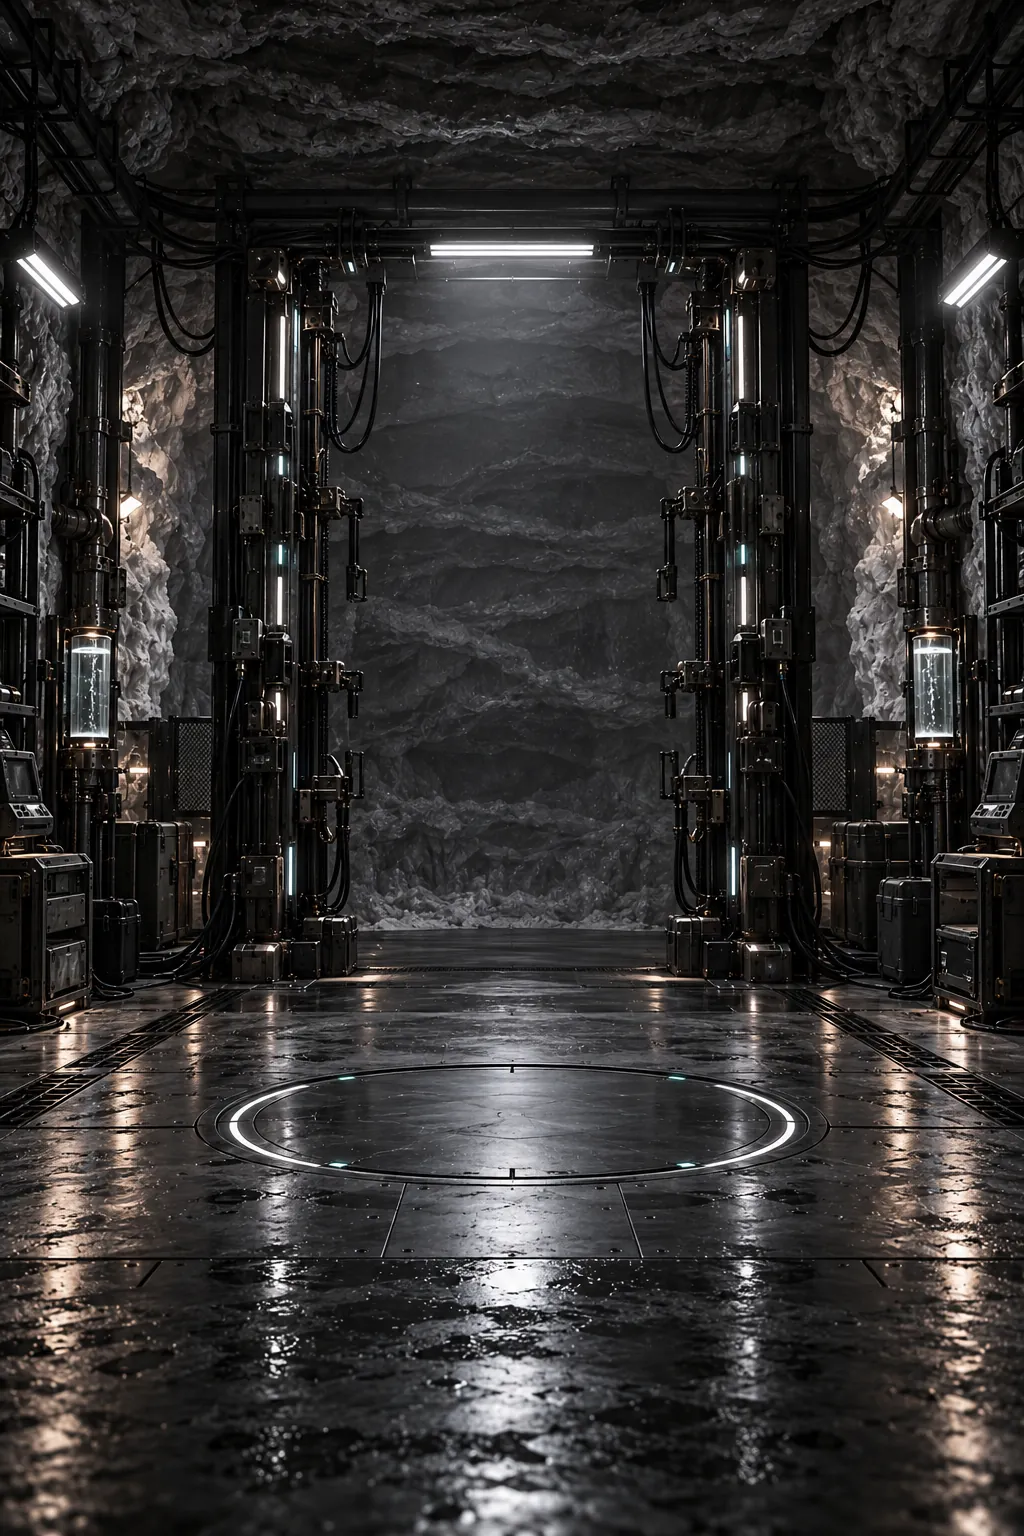
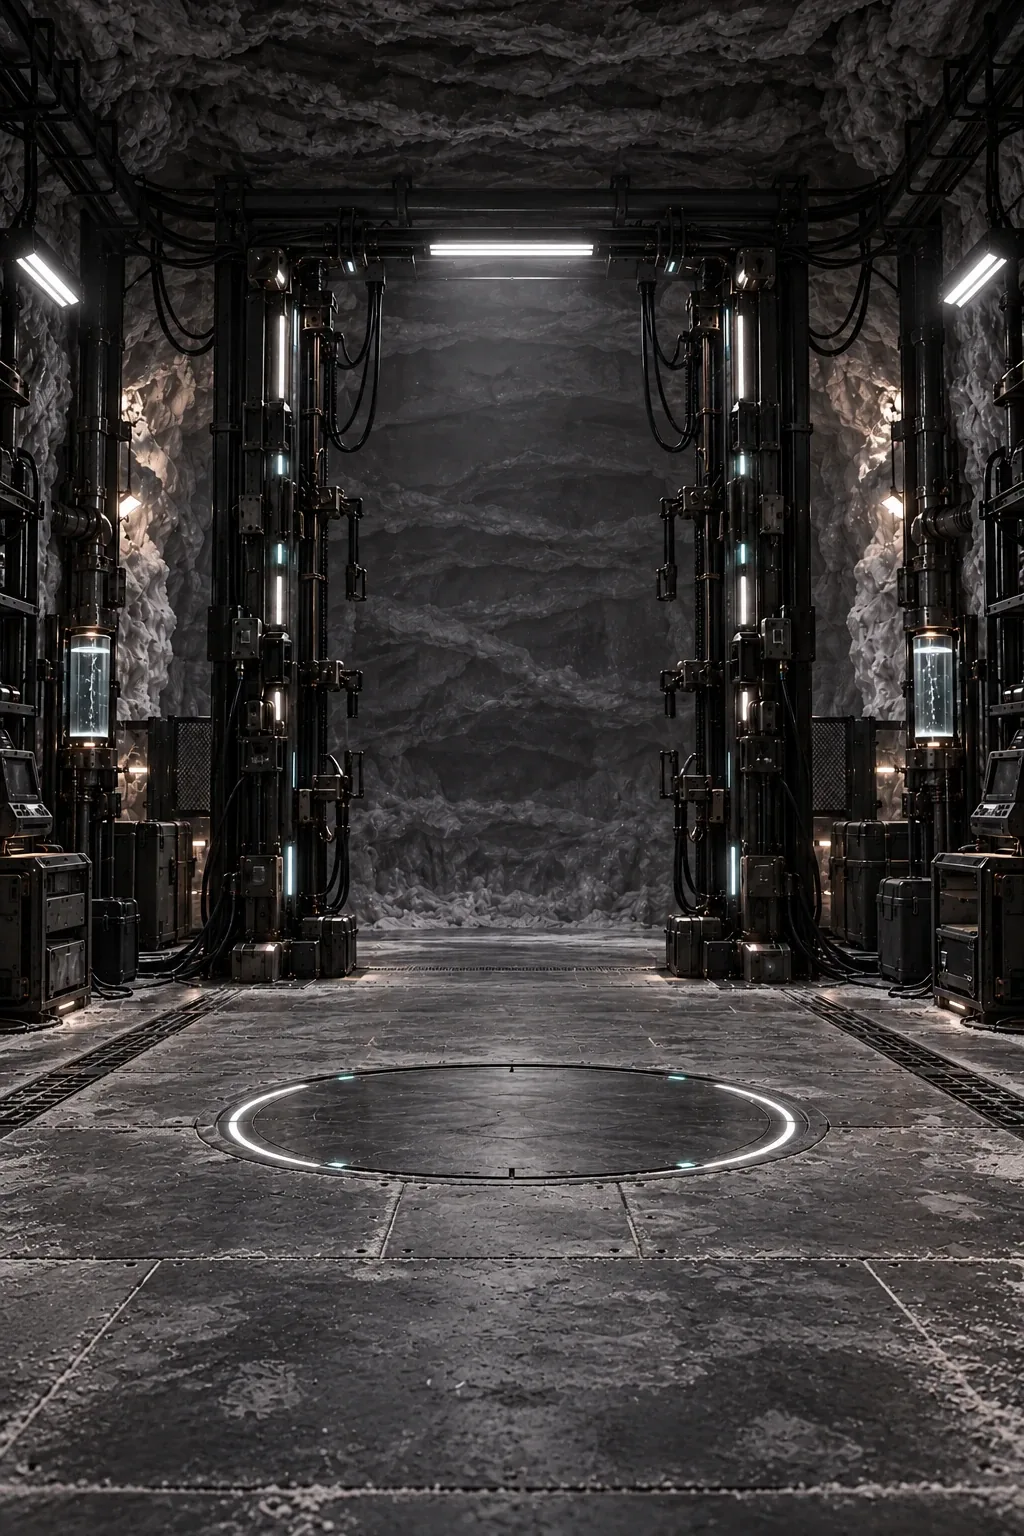
Persona eyes glow in a colour the player picks; dry floor in the Persona bay
The iris is found by its point in the head's own space, since the scans scatter
each eye over several UV islands. Six glow colours replace the iris tints; saved
looks keep their ids.

diff --git a/crates/game-wasm/src/browser/look.rs b/crates/game-wasm/src/browser/look.rs
@@ -54,38 +54,46 @@ fn tint(material: &JsValue, factor: [f64; 3]) {
 }
 
 fn head_hook(material: &JsValue, paint: &JsValue) {
-    let areas = values(&get(paint, "eyeAreas"));
-    let area = |i: usize| array(&areas[i * 4..i * 4 + 4]).into();
+    let spots = values(&get(paint, "eyeSpots"));
+    let area = |i: usize| array(&spots[i * 4..i * 4 + 4]).into();
     let mut uniforms = get(&get(material, "userData"), "cdLook");
     if !present(&uniforms) {
         uniforms = object(&[
             ("cdEyeA", object(&[("value", area(0))])),
             ("cdEyeB", object(&[("value", area(1))])),
             ("cdIris", object(&[("value", get(paint, "iris"))])),
-            ("cdIrisOn", object(&[("value", 0.0.into())])),
         ]);
         set(&get(material, "userData"), "cdLook", &uniforms);
         let shared = uniforms.clone();
         let compile = Closure::<dyn FnMut(JsValue)>::new(move |shader: JsValue| {
             let own = get(&shader, "uniforms");
-            for key in ["cdEyeA", "cdEyeB", "cdIris", "cdIrisOn"] {
+            for key in ["cdEyeA", "cdEyeB", "cdIris"] {
                 set(&own, key, &get(&shared, key));
             }
+            let vertex = string(&get(&shader, "vertexShader"))
+                .replacen("#include <common>", "#include <common>\nvarying vec3 cdLocal;", 1)
+                .replacen("#include <begin_vertex>", "#include <begin_vertex>\ncdLocal = position;", 1);
+            set(&shader, "vertexShader", &vertex.into());
             let fragment = string(&get(&shader, "fragmentShader"))
                 .replacen(
                     "#include <common>",
-                    "#include <common>\nuniform vec4 cdEyeA;\nuniform vec4 cdEyeB;\nuniform vec3 cdIris;\nuniform float cdIrisOn;",
+                    "#include <common>\nvarying vec3 cdLocal;\nuniform vec4 cdEyeA;\nuniform vec4 cdEyeB;\nuniform vec3 cdIris;\nvec3 cdGlow = vec3( 0.0 );",
                     1,
                 )
                 .replacen(
                     "#include <map_fragment>",
                     concat!("#include <map_fragment>\n", include_str!("shaders/look-eyes.glsl")),
                     1,
+                )
+                .replacen(
+                    "#include <emissivemap_fragment>",
+                    "#include <emissivemap_fragment>\ntotalEmissiveRadiance += cdGlow;",
+                    1,
                 );
             set(&shader, "fragmentShader", &fragment.into());
         })
         .into_js_value();
-        let hook = object(&[("key", "look1".into()), ("compile", compile.clone())]);
+        let hook = object(&[("key", "look3".into()), ("compile", compile.clone())]);
         HOOKS.with(|h| h.set(material.unchecked_ref(), &hook));
         // Until the next tune, the hook runs on its own; tune then chains it with the rest.
         set(material, "onBeforeCompile", &compile);
@@ -94,8 +102,6 @@ fn head_hook(material: &JsValue, paint: &JsValue) {
     set(&get(&uniforms, "cdEyeA"), "value", &area(0));
     set(&get(&uniforms, "cdEyeB"), "value", &area(1));
     set(&get(&uniforms, "cdIris"), "value", &get(paint, "iris"));
-    let on = if boolean(&get(paint, "recolorEyes")) { 1.0 } else { 0.0 };
-    set(&get(&uniforms, "cdIrisOn"), "value", &on.into());
 }
 
 /// Paints `look` onto `model`. Safe to call again after every change.

diff --git a/crates/game-client/src/look.rs b/crates/game-client/src/look.rs
@@ -17,14 +17,14 @@ const SKINS: [Choice; 6] = [
     ("brown", "Тёмная", 0x9c7458),
     ("deep", "Очень тёмная", 0x6e4c38),
 ];
-/// Iris colours; grey is the scan's own eye.
+/// Eye glow colours. The ids are the old iris list's, so saved looks still load.
 const EYES: [Choice; 6] = [
-    ("grey", "Серые", 0x8c9092),
-    ("blue", "Голубые", 0x4f7396),
-    ("green", "Зелёные", 0x5b7a4c),
-    ("hazel", "Ореховые", 0x7a5a34),
-    ("brown", "Карие", 0x4a3020),
-    ("dark", "Тёмные", 0x241a14),
+    ("grey", "Лёд", 0x8fd6ff),
+    ("blue", "Синие", 0x3f8cff),
+    ("green", "Зелёные", 0x4dff88),
+    ("hazel", "Янтарные", 0xffb43a),
+    ("brown", "Красные", 0xff3d2e),
+    ("dark", "Фиолетовые", 0xa35cff),
 ];
 /// (sex, id, name, hair cap, hair cards). The male scan has its buzz cut baked into the head.
 const HAIRS: [(&str, &str, &str, bool, bool); 4] = [
@@ -52,10 +52,11 @@ const SUITS: [Choice; 6] = [
 /// Average sRGB of the baked hair cards and suit textures; picks are scaled against them.
 const HAIR_BASE: [f64; 3] = [0.406, 0.304, 0.229];
 const SUIT_BASE: [f64; 3] = [0.322, 0.295, 0.270];
-/// Eye areas in each head texture's UV space (x0, y0, x1, y1), from the 1024 px scans.
-const EYE_AREAS: [(&str, [f64; 8]); 2] = [
-    ("male", [185., 405., 235., 465., 260., 585., 330., 630.]),
-    ("female", [470., 685., 520., 725., 615., 680., 665., 720.]),
+/// Each head's two irises in its mesh's own space (x, y, z, radius). The scans' UV atlases scatter
+/// an eye over several islands, so the eyes are found by position, not by texture area.
+const EYE_SPOTS: [(&str, [f64; 8]); 2] = [
+    ("male", [-0.037, 1.7935, 0.086, 0.006, 0.0292, 1.793, 0.0858, 0.006]),
+    ("female", [-0.283, 0.092, 0.623, 0.05, 0.266, 0.103, 0.622, 0.05]),
 ];
 pub const CALLSIGN_MAX: usize = 16;
 
@@ -182,11 +183,7 @@ pub fn paint(look: &Value) -> Value {
         .unwrap_or(HAIRS[0]);
     let hair_color = find(&HAIR_COLORS, text(&look["hairColor"])).unwrap_or(HAIR_COLORS[2]);
     let eyes = find(&EYES, text(&look["eyes"])).unwrap_or(EYES[0]);
-    let areas = EYE_AREAS
-        .iter()
-        .find(|a| a.0 == sex)
-        .map(|a| a.1.map(|v| v / 1024.))
-        .unwrap_or([0.; 8]);
+    let spots = EYE_SPOTS.iter().find(|a| a.0 == sex).map(|a| a.1).unwrap_or([0.; 8]);
     let cap = lin(srgb(hair_color.2)).map(|v| v * 0.75);
     json!({
         "sex": sex,
@@ -198,8 +195,7 @@ pub fn paint(look: &Value) -> Value {
         "cap": hair.3,
         "cards": hair.4,
         "iris": round(lin(srgb(eyes.2))),
-        "recolorEyes": eyes.0 != "grey",
-        "eyeAreas": json!(areas),
+        "eyeSpots": json!(spots),
     })
 }
 
@@ -307,7 +303,7 @@ mod tests {
         assert_eq!(p["hairCards"], json!([1.0, 1.0, 1.0]));
         assert_eq!(p["suit"], json!([1.0, 1.0, 1.0]));
         assert_eq!(p["skin"], json!([1.0, 1.0, 1.0]));
-        assert_eq!(p["recolorEyes"], false);
+        assert_eq!(p["iris"], json!(round(lin(srgb(EYES[0].2)))));
         assert_eq!(p["cards"], true);
         assert_eq!(paint(&finished("male"))["model"], "persona-male");
     }

diff --git a/crates/game-wasm/src/browser/creation.rs b/crates/game-wasm/src/browser/creation.rs
@@ -44,7 +44,7 @@ pub const STEPS: [(&str, &str, &str, bool); 7] = [
     ("sex", "Пол", "Мужская Персона или женская? Броня сядет на любую.", false),
     ("face", "Лицо", "Лицо. Пока на складе одно, новые уже в работе.", true),
     ("skin", "Кожа", "Тон кожи. Под нашими лампами все бледные, не пугайся.", true),
-    ("eyes", "Глаза", "Цвет глаз. Мелочь, но по ним тебя узнают свои.", true),
+    ("eyes", "Глаза", "Свечение глаз. По нему тебя узнают свои, даже в дыму.", true),
     ("hair", "Волосы", "Причёска. Под каской не видно, но по базе ходишь без неё.", true),
     ("suit", "Костюм", "Цвет костюма. Выбирай, в чём не стыдно умирать.", false),
     ("callsign", "Позывной", "Последнее: позывной. Так тебя будут звать в эфире.", false),
